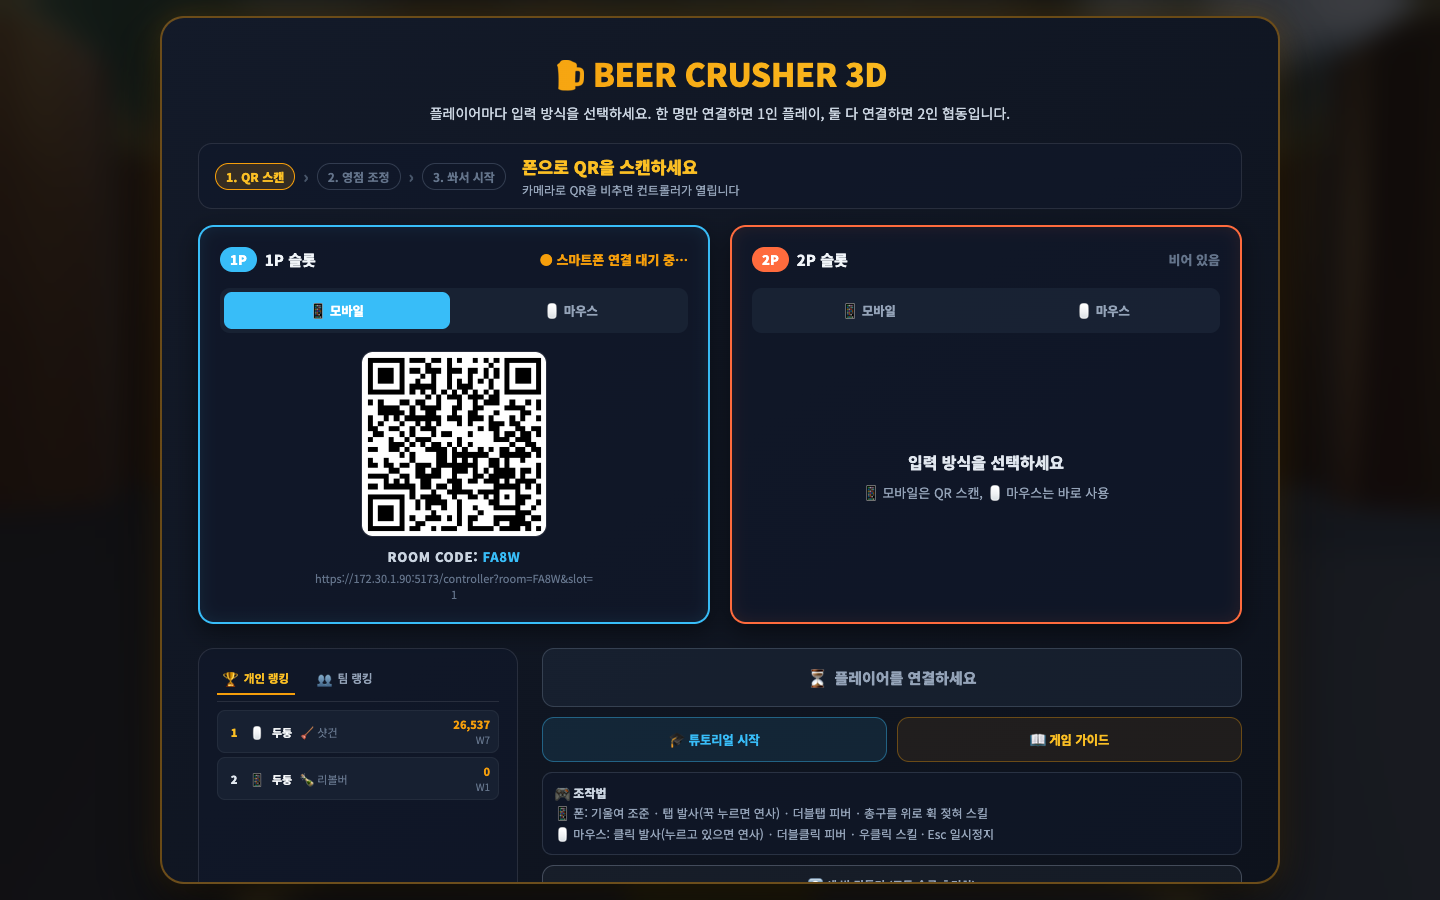
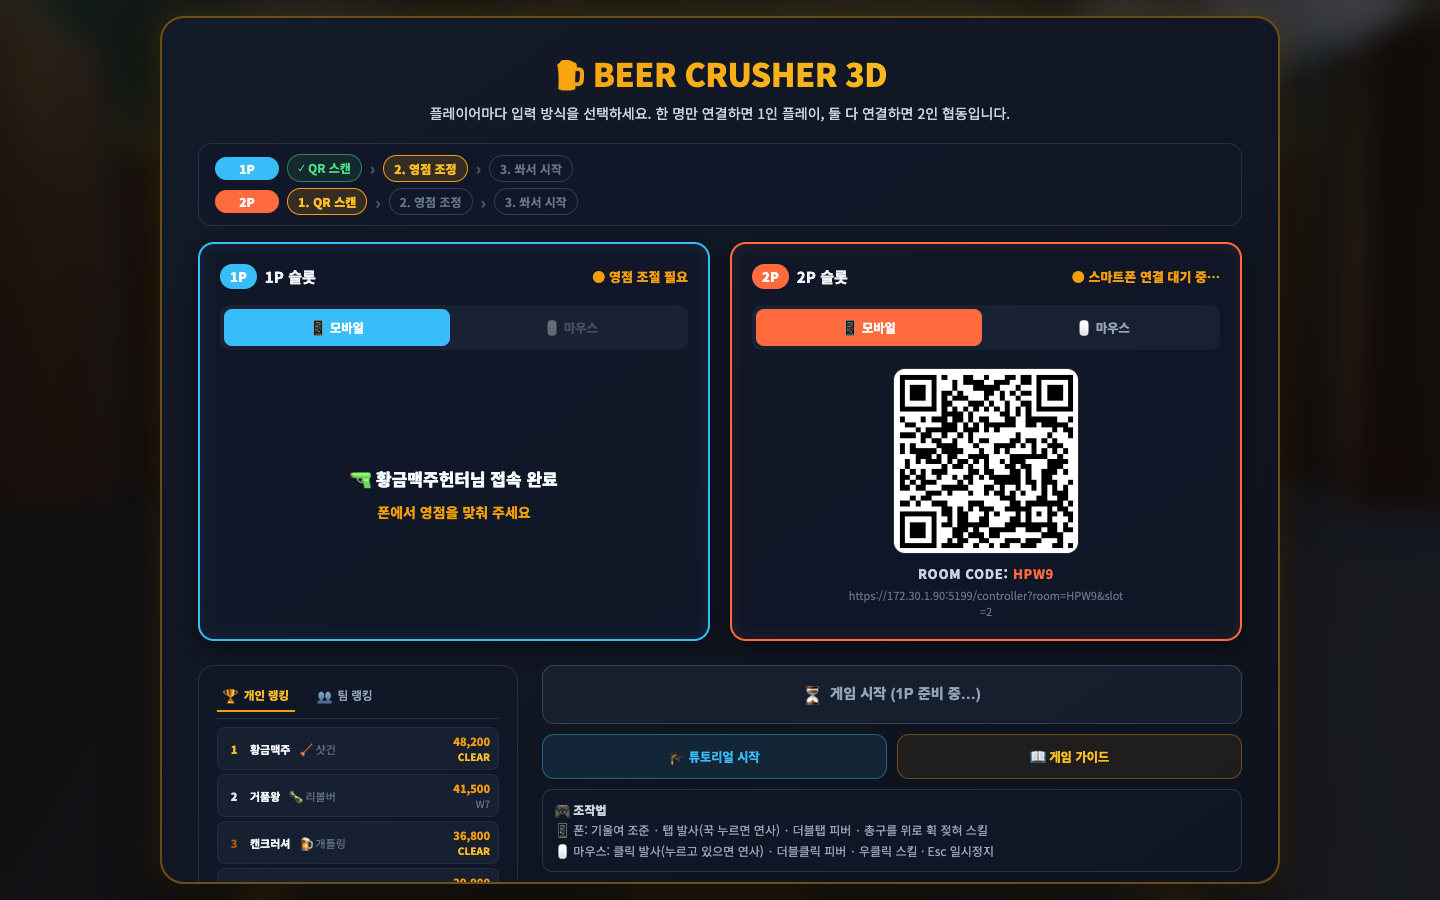
docs: 로비·랭킹 캡처를 새 화면으로 교체
Plan: 2026-11-10-lobby-2p-default-mobile
Phase: P04-docs-captures
Task: T01-recapture-lobby-and-ranking

- 로비 3장(2P 기본 모바일·플레이어별 뱃지·시작 버튼 문구) 재촬영
- 랭킹 패널 캡처(CLEAR/W7 구분) 추가, 결과 화면 캡처는 재현 스크립트가 없어 유지
- capture-lobby.mjs에 CAPTURE_URL 추가, 문서 캡션 갱신

diff --git a/.memory/phases/2026-11-10-lobby-2p-default-mobile/P04-docs-captures/T01-recapture-lobby-and-ranking.md b/.memory/phases/2026-11-10-lobby-2p-default-mobile/P04-docs-captures/T01-recapture-lobby-and-ranking.md
@@ -1,6 +1,6 @@
 # Task: T01 로비·결과 랭킹 캡처 재촬영
 
-## Status: pending
+## Status: done
 
 ## Goal
 이번 계획(2P 기본 모바일, 플레이어별 배너, 시작 버튼 문구, 랭킹 CLEAR)으로 틀려진 문서 캡처를 새 화면으로 교체하고, 문서가 가리키는 이미지가 모두 존재하는지 확인한다.
@@ -30,6 +30,11 @@
 - 촬영 후 이미지를 `Read`로 열어 한글 깨짐·카드/배너 잘림을 눈으로 확인한다(WebGL 컨텍스트 손실 시 재시도).
 - 문서 캡션: 로비는 "플레이어별 단계 뱃지, 2P는 연결하지 않아도 1인 시작" 설명, 랭킹은 "클리어는 CLEAR, 사망은 W{n}" 설명을 추가. 문서가 참조하는 이미지가 전부 존재하는지 `tests/docs-screens-exist.test.ts`로 확인(없으면 이 Task에서 만들지 말고 `npm test` 결과로만 판단).
 
+## 실행 결과 메모 (구현 중 확정)
+- `play-result-ranking.png`(결과 화면)을 만드는 촬영 코드가 없어 **재촬영하지 않고 그대로 둔다**. 대신 랭킹 패널만 찍은 새 이미지 `docs/screens/play-ranking-clear-marker.png`를 추가하고 `docs/구동화면_쇼케이스.md`에서 참조한다(CLEAR·W7 구분 설명 포함).
+- 촬영용 기록은 임시 폴더를 작업 디렉터리로 띄운 서버(`data/game.db`가 아닌 임시 DB)에 심었다. 5173 포트의 vite는 다른 프로젝트 것이라 건드리지 않고, 이 프로젝트 vite는 5199로 띄웠다. 그래서 `scripts/capture-lobby.mjs`에 `CAPTURE_URL` 환경변수를 추가했다.
+- `screen-01-pc-lobby-qr.png`는 "1P 접속·영점 대기 + 2P QR 대기", `screen-01b-pc-lobby-paired.png`는 "1P 준비 완료 + 2P (선택)"로 파일명 의미에 맞춰 찍었다.
+
 ## Acceptance Criteria
 - [ ] 로비 3장이 새 화면(플레이어별 뱃지, 버튼 문구, 2P QR/(선택))이고, 결과/랭킹 캡처에 CLEAR가 보인다
 - [ ] 이미지를 육안으로 확인했고 잘림·깨짐이 없다
@@ -54,6 +59,6 @@ Task: T01-recapture-lobby-and-ranking
 ```
 
 ## Progress
-- [ ] 구현 완료
-- [ ] 검증 통과
-- commit: pending
+- [x] 구현 완료
+- [x] 검증 통과
+- commit: git log --grep "Task: T01-recapture-lobby-and-ranking"

diff --git a/.memory/current.md b/.memory/current.md
@@ -4,13 +4,13 @@
 [로비 2P 기본 모바일 + 플레이어별 단계 뱃지 + 시작 버튼 상태 문구](./plans/2026-11-10-lobby-2p-default-mobile.md)
 
 ## Active Phase
-[P04 문서 캡처 재촬영](./phases/2026-11-10-lobby-2p-default-mobile/P04-docs-captures/phase.md)
+없음 (P01~P04 구현 완료, 코드리뷰 진행 중)
 
 ## Active Task
-[T01 로비·결과 랭킹 캡처 재촬영](./phases/2026-11-10-lobby-2p-default-mobile/P04-docs-captures/T01-recapture-lobby-and-ranking.md)
+없음 — 마지막: [P04-T01 로비·결과 랭킹 캡처 재촬영](./phases/2026-11-10-lobby-2p-default-mobile/P04-docs-captures/T01-recapture-lobby-and-ranking.md)
 
 ## Status
-- P01~P03 완료(전체 테스트 1024개, tsc 통과). 전체 Task 완료 후 같은 모델 서브에이전트로 코드리뷰 진행(사용자 요청).
+- P01~P04 구현·커밋 완료(전체 테스트 1024개, tsc 통과). 같은 모델(Sonnet) 서브에이전트로 전체 코드리뷰 진행(사용자 요청).
 
 ## Next Step (IMPORTANT)
-P04-T01 청사진을 읽고 서버(npm run server)+vite를 띄워 scripts/capture-lobby.mjs로 로비 3장과 랭킹 캡처를 다시 찍는다. 이후 같은 모델 서브에이전트로 전체 코드리뷰.
+코드리뷰 결과를 확인해 지적 사항을 반영(필요 시). 사람이 직접 확인: 로비 배너·시작 버튼·2P (선택) 표시, 랭킹 CLEAR 표기.

diff --git a/.memory/plans/2026-11-10-lobby-2p-default-mobile.md b/.memory/plans/2026-11-10-lobby-2p-default-mobile.md
@@ -14,7 +14,7 @@
 | P01 | `done ✅` | 2P 기본 모바일(로비 진입·로비 복귀 공통 규칙) | [P01](../phases/2026-11-10-lobby-2p-default-mobile/P01-default-slots/phase.md) |
 | P02 | `done ✅` | 배너 플레이어별 뱃지, 시작 버튼 상태 문구, 2P 카드 "(선택)" | [P02](../phases/2026-11-10-lobby-2p-default-mobile/P02-lobby-guide-ui/phase.md) |
 | P03 | `done ✅` | 랭킹 클리어 표시(서버 outcome 노출 + RankingTabs "CLEAR") | [P03](../phases/2026-11-10-lobby-2p-default-mobile/P03-ranking-clear-marker/phase.md) |
-| P04 | `in_progress 🔵` | 문서 캡처 재촬영(로비 3장 + 결과 랭킹) | [P04](../phases/2026-11-10-lobby-2p-default-mobile/P04-docs-captures/phase.md) |
+| P04 | `done ✅` | 문서 캡처 재촬영(로비 3장 + 결과 랭킹) | [P04](../phases/2026-11-10-lobby-2p-default-mobile/P04-docs-captures/phase.md) |
 
 ## 검증 공통 커맨드
 - `npx vitest run <파일>` (개별), `npm test` (전체: `vitest run`), `npx tsc --noEmit` (타입)

diff --git a/.memory/phases/2026-11-10-lobby-2p-default-mobile/P04-docs-captures/phase.md b/.memory/phases/2026-11-10-lobby-2p-default-mobile/P04-docs-captures/phase.md
@@ -3,7 +3,7 @@
 ## Tasks
 | Task | Status | Summary | Blueprint |
 | :--- | :--- | :--- | :--- |
-| T01 | `in_progress 🔵` | 로비 3장 + 결과 랭킹 화면 재촬영, 문서 참조 점검 | [T01](./T01-recapture-lobby-and-ranking.md) |
+| T01 | `done ✅` | 로비 3장 + 결과 랭킹 화면 재촬영, 문서 참조 점검 | [T01](./T01-recapture-lobby-and-ranking.md) |
 
 ## Progress
-- done: 0/1 (active: T01)
+- done: 1/1 (완료)
